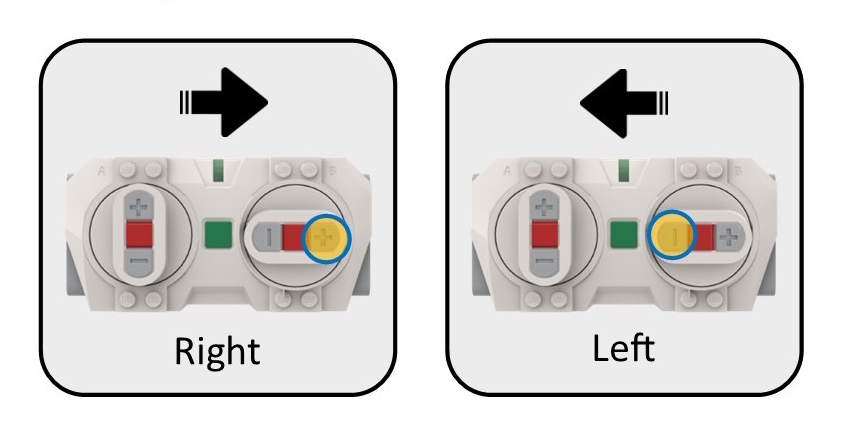
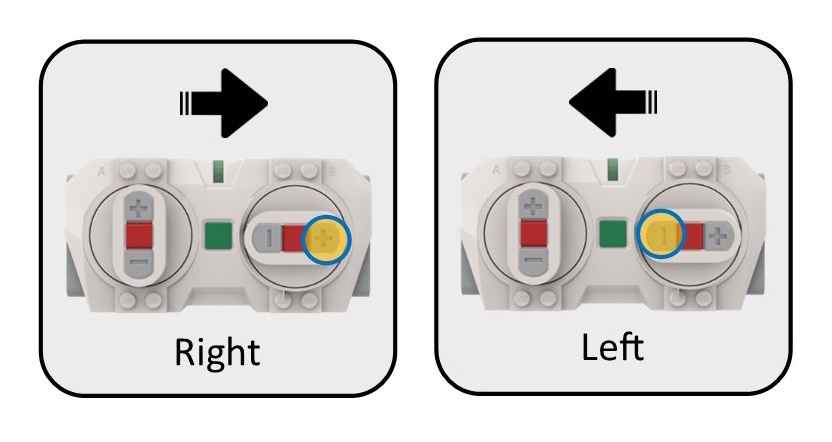
docs

diff --git a/README.md b/README.md
@@ -50,7 +50,8 @@ Left buttons for drive, Right buttons for steering
 ### ODV
 
 Left buttons for Y, Right buttons for X
-<img src="images/ODVSteerRemote.jpg" alt="ODV Remote Instructions" style="max-height:200px;" />
+<img src="images/ODVSteerRemoteUpDown.jpg" alt="ODV Remote Y axis" style="max-height:200px;" />
+<img src="images/ODVSteerRemoteLeftRight.jpg" alt="ODV Remote X axis" style="max-height:200px;" />
 
 ## Light Codes
 
